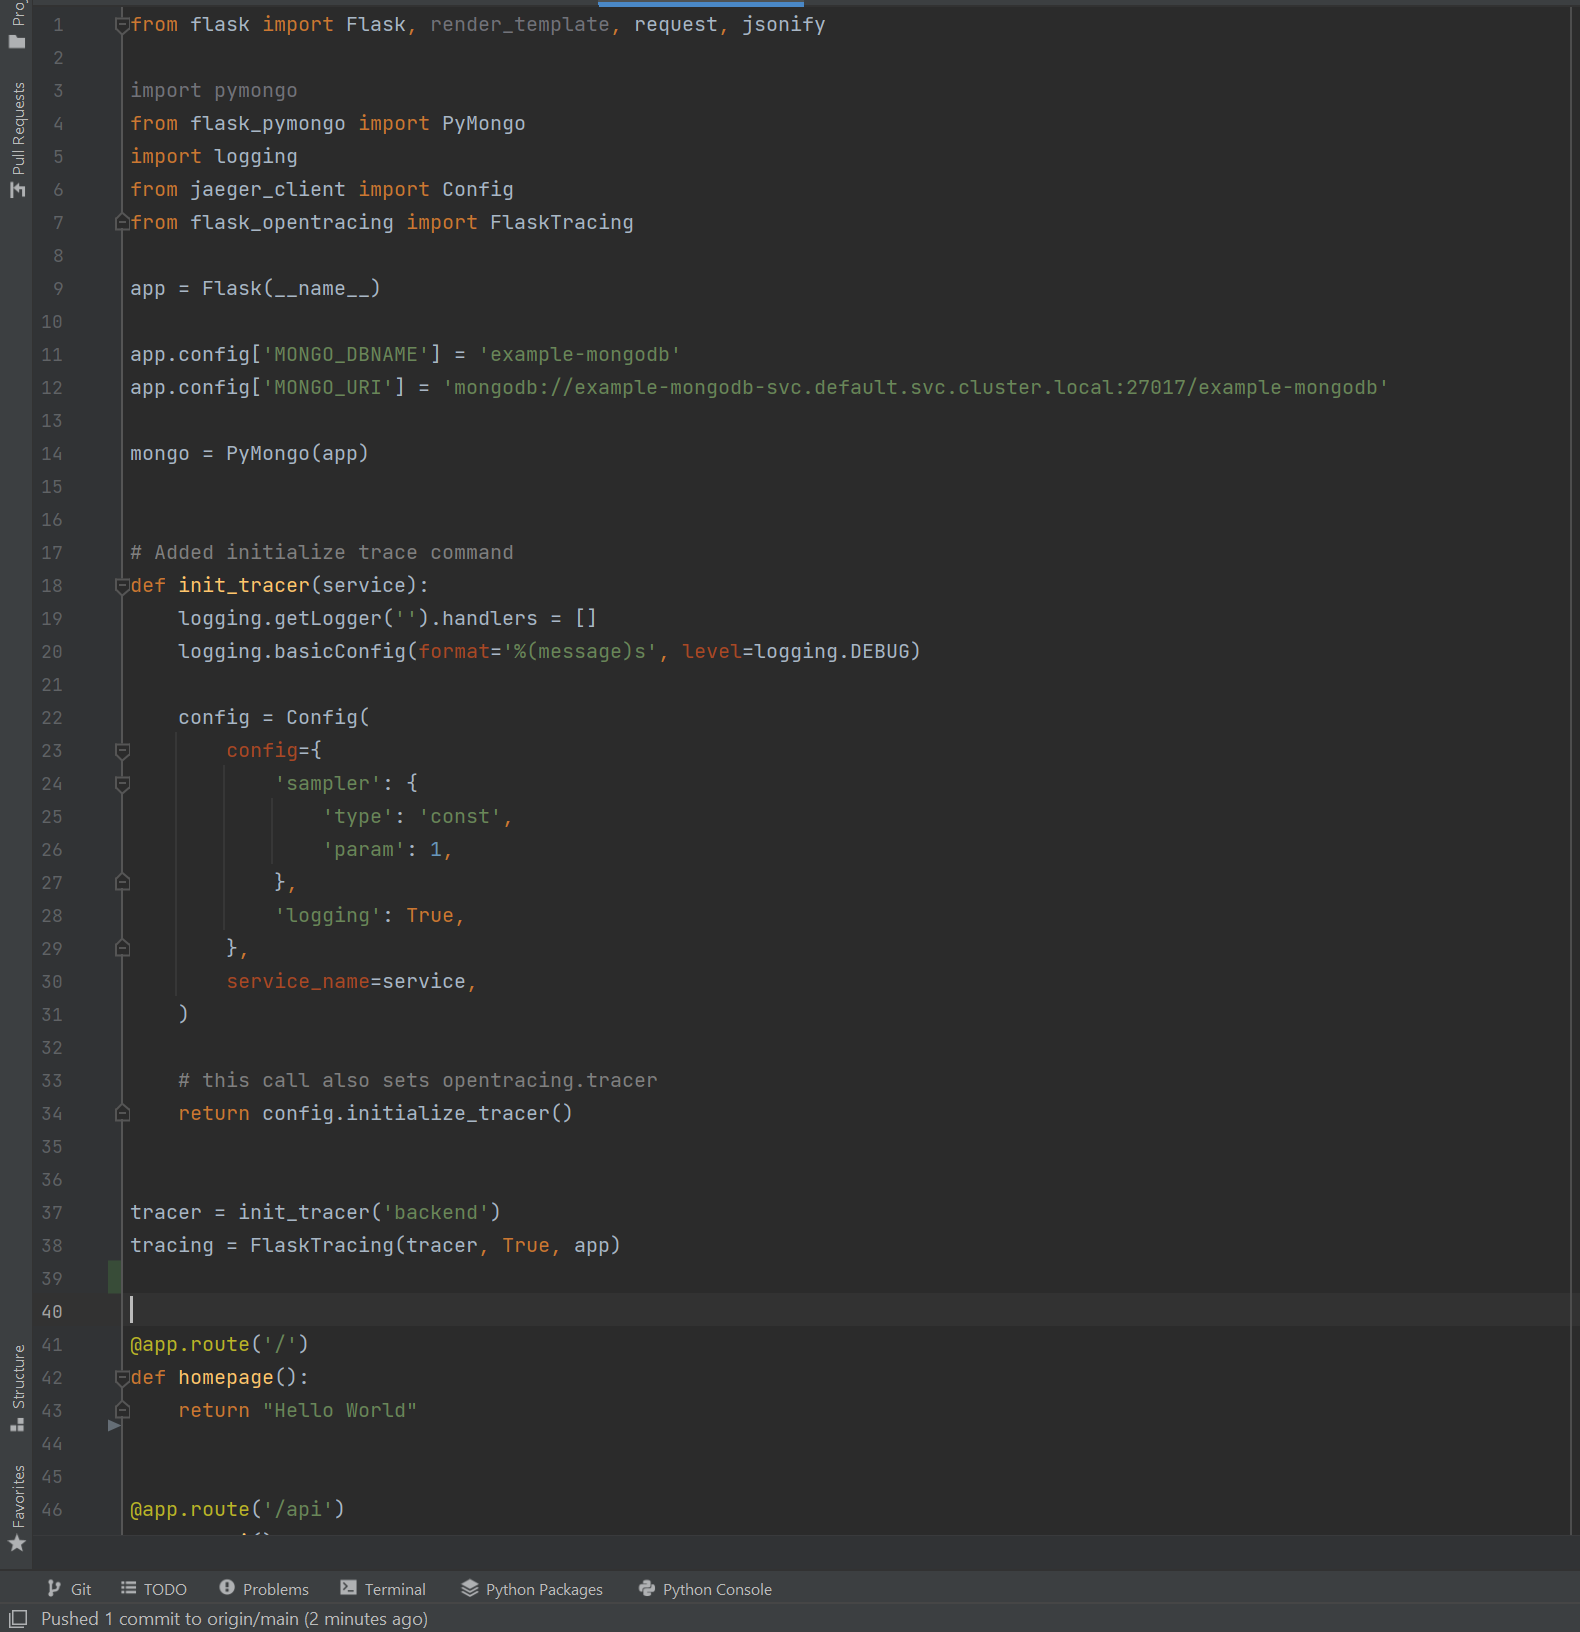
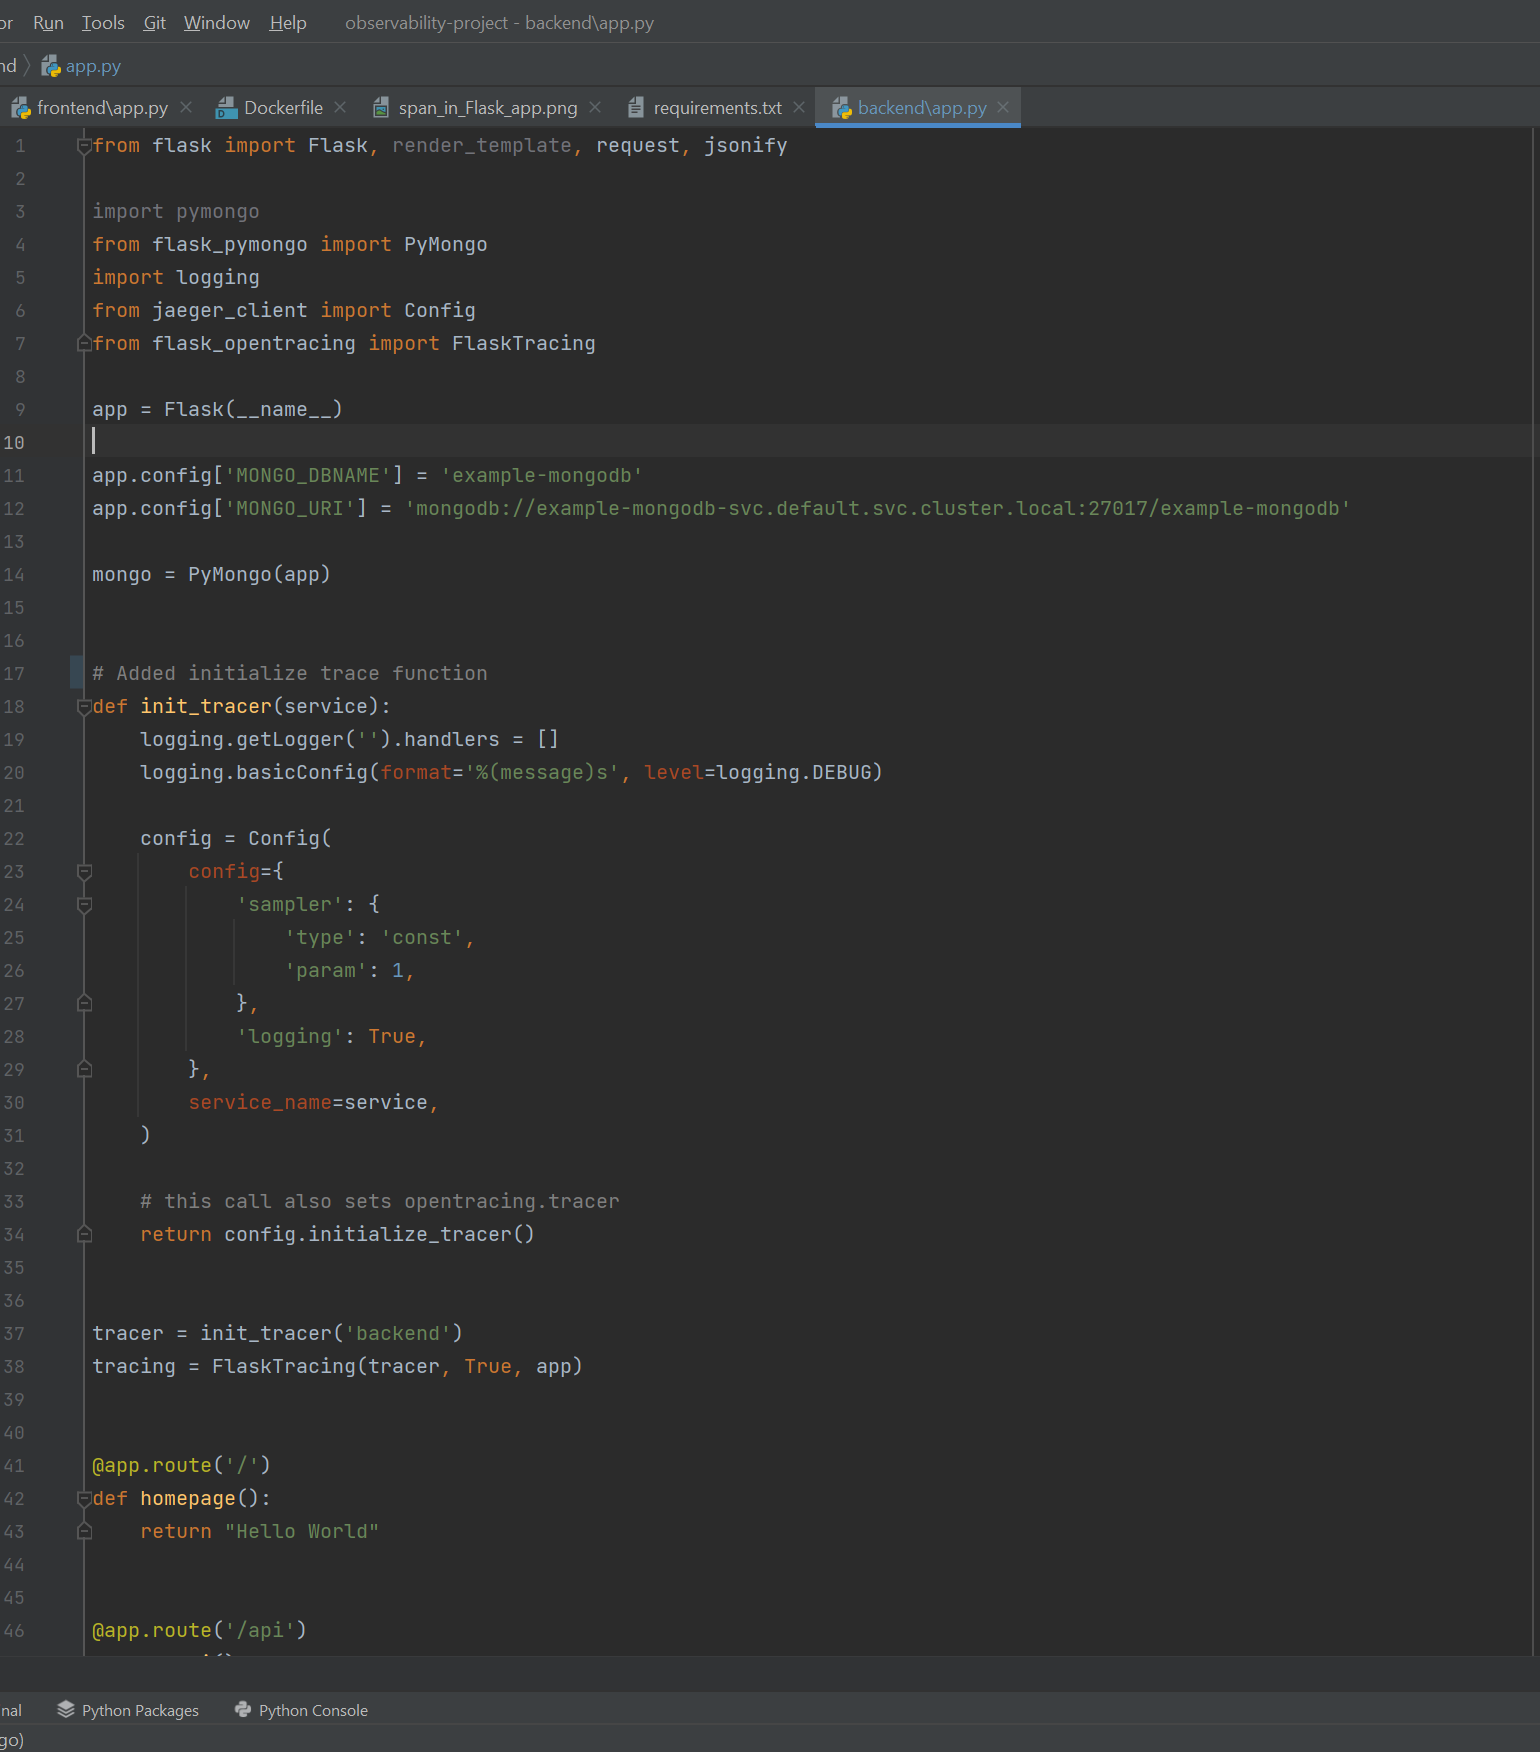
uploaded screenshot of span in Flask

diff --git a/reference-app/backend/app.py b/reference-app/backend/app.py
@@ -14,7 +14,7 @@ app.config['MONGO_URI'] = 'mongodb://example-mongodb-svc.default.svc.cluster.loc
 mongo = PyMongo(app)
 
 
-# Added initialize trace command
+# Added initialize trace function
 def init_tracer(service):
     logging.getLogger('').handlers = []
     logging.basicConfig(format='%(message)s', level=logging.DEBUG)
